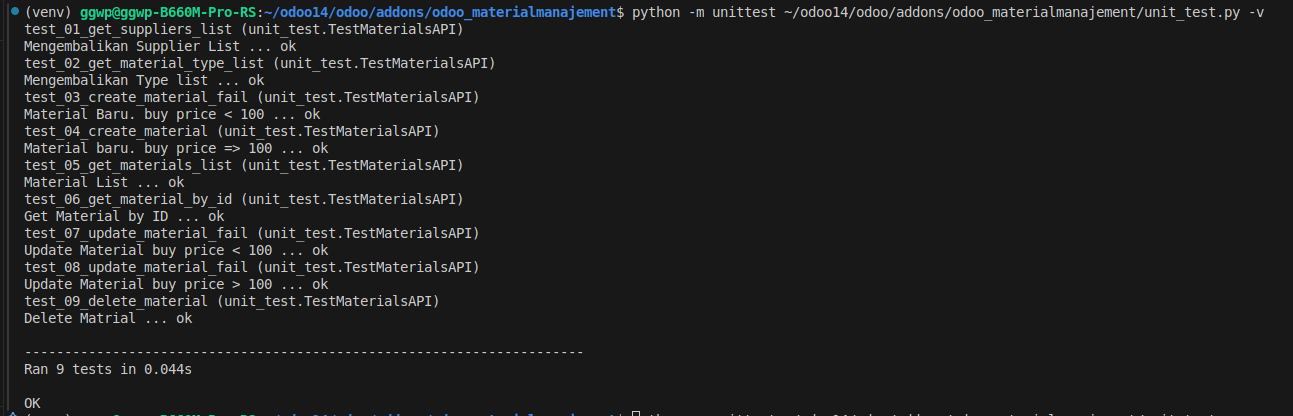
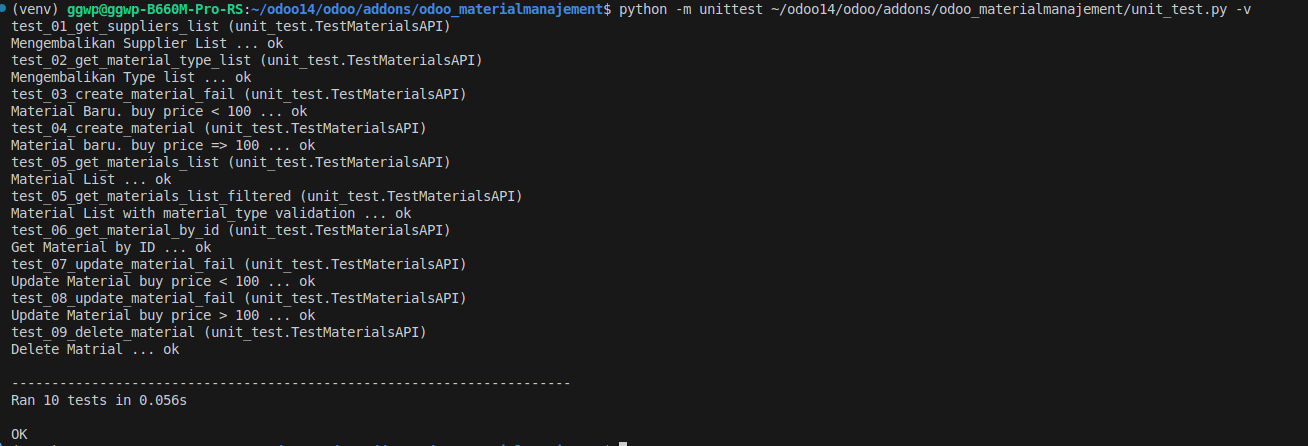
unit test filter

diff --git a/unit_test.py b/unit_test.py
@@ -69,6 +69,20 @@ class TestMaterialsAPI(unittest.TestCase):
         self.assertIn("results", data)
         self.assertGreater(len(data["results"]), 0)
 
+    def test_05_get_materials_list_filtered(self):
+        """Material List dengan type filter"""
+        response = requests.get(BASE_URL, params={"material_type": TestMaterialsAPI.type_code})
+        self.assertEqual(response.status_code, 200)
+
+        data = response.json()
+        self.assertIn("results", data)
+        self.assertGreater(len(data["results"]), 0, "Material list should not be empty")
+
+        # Validasi setiap item memiliki material_type yang sesuai
+        for material in data["results"]:
+            self.assertIn("material_type", material, "Each material should have a material_type field")
+            self.assertEqual(material["material_type"], TestMaterialsAPI.type_code, f"Material type should be '{TestMaterialsAPI.type_code}', but got {material['material_type']}")
+
     def test_06_get_material_by_id(self):
         """Get Material by ID"""
         self.assertIsNotNone(TestMaterialsAPI.material_id, "Material ID tidak tersedia")
